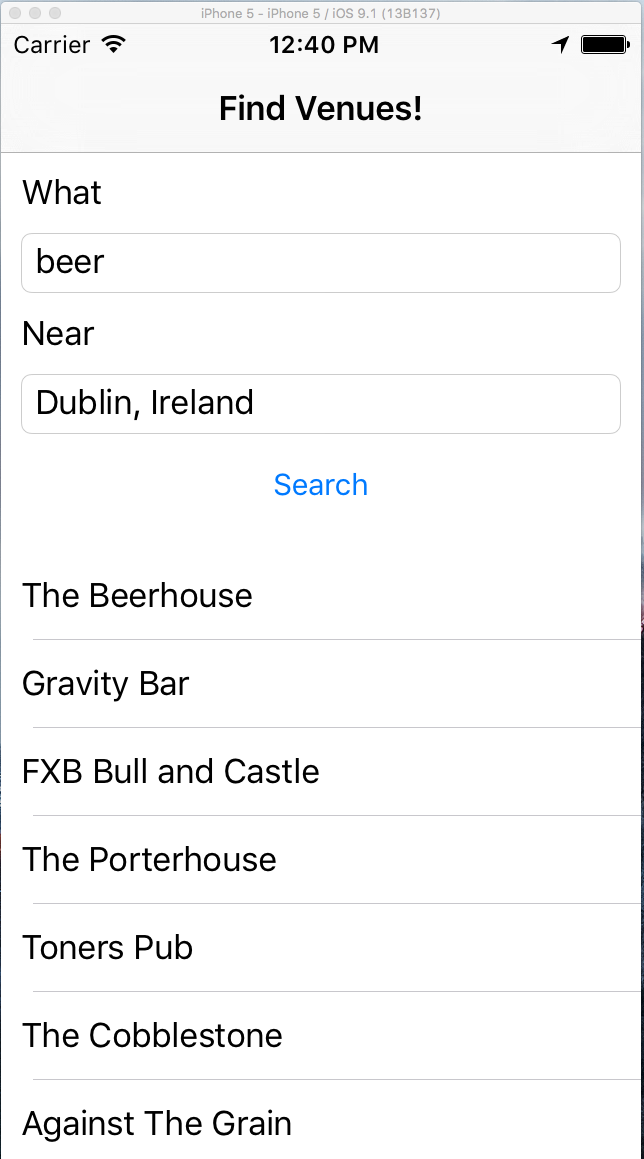
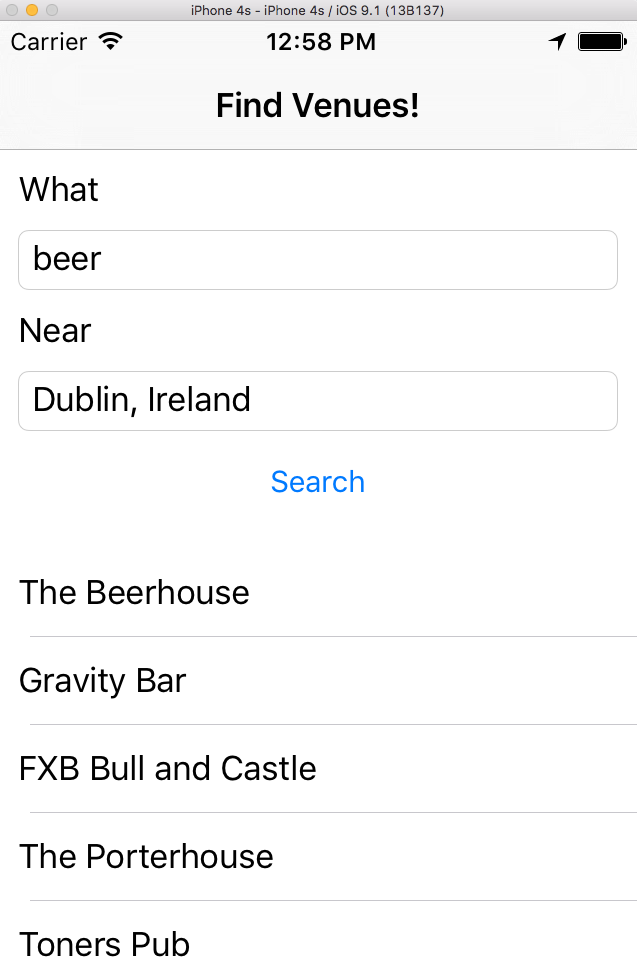
Update README.md

diff --git a/README.md b/README.md
@@ -2,6 +2,5 @@
 
 Example iOS Swift app using FourSquare API to search for venues nearby.
 
-[Screen1](screen1.png)
-
-[Screen2](screen2.png)
+<img src="screen1.png"/>
+<img src="screen2.png"/>
